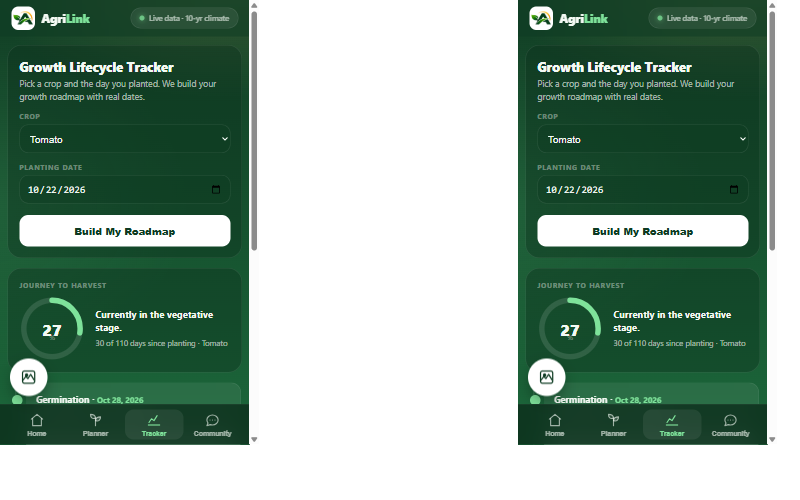
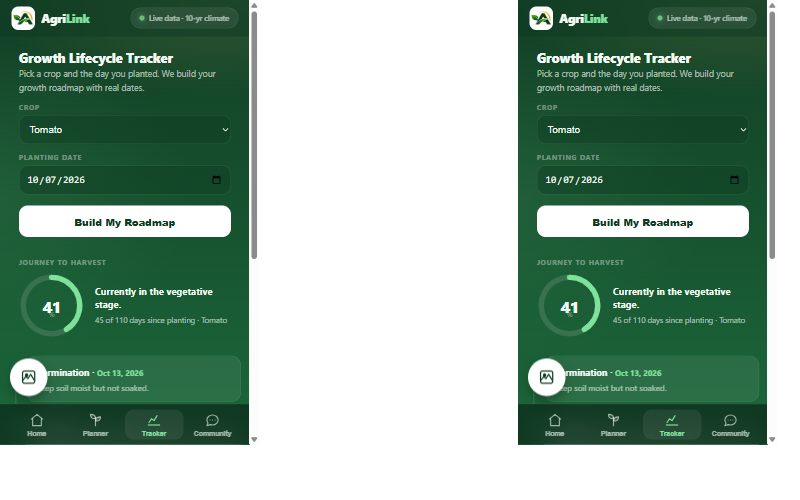
De-boxed layout: open editorial sections; crop search, helpful reactions, parish board filter, harvest dates on picks, offline badge

Changed region(s): [[0.6562, 0.09, 0.9688, 0.81], [0.0, 0.09, 0.3125, 0.81]]

diff --git a/css/styles.css b/css/styles.css
@@ -102,14 +102,17 @@ main { max-width: 560px; margin: 0 auto; padding: 18px 16px; }
 .screen.active { display: block; }
 @keyframes fadeIn { from { opacity: 0; transform: translateY(10px); } to { opacity: 1; } }
 
-/* ---------- glass panels — the only "surface" in the app ---------- */
+/* ---------- open sections: no boxes — content sits on the canvas,
+   separated by hairline dividers, like a premium field guide ---------- */
 .card {
-  background: rgba(11, 46, 26, .38);
-  border: 1px solid var(--glass-line);
-  border-radius: var(--radius);
-  padding: 22px;
-  margin-bottom: 16px;
+  background: none;
+  border: none;
+  border-radius: 0;
+  padding: 4px 2px;
+  margin-bottom: 10px;
 }
+.screen .card + .card { border-top: 1px solid var(--glass-line); margin-top: 14px; padding-top: 22px; }
+.screen .card:first-child { padding-top: 4px; }
 .card.soft { background: var(--glass-strong); }
 
 /* ---------- HOME: the big hero (like a weather app's temp) ---------- */
@@ -189,11 +192,11 @@ main { max-width: 560px; margin: 0 auto; padding: 18px 16px; }
 /* ---------- rain alert ---------- */
 .alert-banner {
   display: flex; flex-direction: column; gap: 2px;
-  background: rgba(255, 213, 126, .12);
-  border: 1px solid rgba(255, 213, 126, .35);
-  border-radius: var(--radius);
-  padding: 14px 16px;
-  margin-bottom: 14px;
+  background: linear-gradient(90deg, rgba(255, 213, 126, .14), rgba(255, 213, 126, .04));
+  border-left: 3px solid var(--sun);
+  border-radius: 4px;
+  padding: 12px 16px;
+  margin-bottom: 16px;
 }
 .alert-banner b { color: var(--sun); font-size: 14.5px; }
 .alert-banner span { color: rgba(255, 213, 126, .8); font-size: 13px; }
@@ -254,6 +257,26 @@ main { max-width: 560px; margin: 0 auto; padding: 18px 16px; }
 .pick .pick-score .num { font-weight: 800; font-size: 16px; color: var(--mint); }
 .pick .pick-score .bar { height: 4px; border-radius: 999px; background: rgba(255,255,255,.14); margin-top: 5px; overflow: hidden; }
 .pick .pick-score .bar div { height: 100%; background: var(--mint); border-radius: 999px; }
+
+/* ---------- search ---------- */
+.search-wrap { position: relative; margin: 6px 0 2px; }
+.search-wrap svg { position: absolute; left: 14px; top: 13px; width: 17px; height: 17px; color: var(--ink-faint); }
+.search-wrap input { padding-left: 40px; }
+
+/* ---------- segmented control (board filter) ---------- */
+.seg { display: inline-flex; background: rgba(255,255,255,.08); border-radius: 999px; padding: 3px; margin-top: 8px; }
+.seg button { border: none; background: none; color: var(--ink-dim); font-size: 12px; font-weight: 700; padding: 6px 14px; border-radius: 999px; cursor: pointer; font-family: inherit; }
+.seg button.on { background: #fff; color: var(--dark); }
+
+/* ---------- helpful reaction ---------- */
+.helpful {
+  border: none; background: none;
+  color: var(--ink-faint);
+  font-size: 11.5px; font-weight: 700;
+  cursor: pointer; margin-top: 6px; padding: 0;
+  font-family: inherit;
+}
+.helpful.did { color: var(--coral); }
 
 /* ---------- season chips ---------- */
 .season-chips { display: flex; flex-wrap: wrap; gap: 8px; margin: 8px 0 4px; }
@@ -395,7 +418,6 @@ input::placeholder { color: var(--ink-faint); }
 .stage .tip { color: var(--ink-dim); font-size: 13px; margin-top: 3px; }
 .stage b { font-size: 14.5px; }
 .stage.done::before { background: var(--mint); border-color: var(--mint); }
-.stage.current { border-color: rgba(255, 213, 126, .5); }
 .stage.current::before { background: var(--sun); border-color: var(--sun); }
 
 .progress-wrap { display: flex; align-items: center; gap: 18px; }
@@ -414,8 +436,8 @@ input::placeholder { color: var(--ink-faint); }
 .upload-box {
   display: flex; flex-direction: column; align-items: center; gap: 12px;
   border: 2px dashed rgba(255,255,255,.22);
-  border-radius: var(--radius);
-  background: rgba(255,255,255,.05);
+  border-radius: 20px;
+  background: rgba(255,255,255,.04);
   padding: 26px 16px;
   margin-top: 14px;
   text-align: center;

diff --git a/js/app.js b/js/app.js
@@ -197,6 +197,8 @@ async function loadFarmData(parishName) {
       renderTopPicks();
       renderForecastStrip();
       renderSeasonChips();
+      renderHeroCondition();
+      updateOfflineBadge();
       return;
     }
   } catch {
@@ -254,7 +256,18 @@ async function loadFarmData(parishName) {
   renderForecastStrip();
   renderSeasonChips();
   renderHeroCondition();
+  updateOfflineBadge();
 }
+
+// Offline indicator — the PWA story: it still works, just tells you.
+function updateOfflineBadge() {
+  const el = document.getElementById("offline-note");
+  if (!el) return;
+  el.textContent = navigator.onLine ? "" : "You're offline — showing saved data. Everything still works.";
+  el.classList.toggle("hidden", navigator.onLine);
+}
+window.addEventListener("online", updateOfflineBadge);
+window.addEventListener("offline", updateOfflineBadge);
 
 // One human line about the week ahead, right under the big temp.
 function renderHeroCondition() {
@@ -403,7 +416,7 @@ function renderTopPicks() {
       `<span class="icon">${CROP_ICONS[entry.crop.name]}</span>` +
       `<span class="pick-info">` +
         `<span class="pick-name">${entry.crop.name}</span>` +
-        `<div class="pick-why">${entry.rec.verdict} · rain ${entry.rec.rain} mm · ${entry.rec.score}% fit</div>` +
+        `<div class="pick-why">${entry.rec.verdict} · harvest around ${harvestDate(entry.crop).replace(/,.*/, "")}</div>` +
       `</span>` +
       `<span class="pick-score"><span class="num">${entry.rec.score}%</span>` +
         `<div class="bar"><div style="width:${entry.rec.score}%"></div></div></span>`;
@@ -437,11 +450,19 @@ async function fetchClimateYear(parish, year, now) {
 }
 
 // ============ 4. PLANNER SCREEN ============
-function renderCrops() {
+function renderCrops(filterText) {
   const grid = document.getElementById("crop-grid");
   grid.innerHTML = "";
+  const filter = (filterText || "").toLowerCase();
 
-  CROPS.forEach((crop, index) => {
+  const visible = CROPS.filter((crop) => crop.name.toLowerCase().includes(filter));
+  if (!visible.length) {
+    grid.innerHTML = `<p class="muted small">No crop called "${filterText}" — try lettuce, okra, corn…</p>`;
+    return;
+  }
+
+  visible.forEach((crop) => {
+    const index = CROPS.indexOf(crop);
     const tile = document.createElement("button");
     tile.className = "crop-tile";
     tile.type = "button";
@@ -453,6 +474,10 @@ function renderCrops() {
     grid.appendChild(tile);
   });
 }
+
+document.getElementById("crop-search").addEventListener("input", (event) => {
+  renderCrops(event.target.value.trim());
+});
 
 function showPlan(index) {
   const crop = CROPS[index];
@@ -695,10 +720,16 @@ document.getElementById("chat-form").addEventListener("submit", (event) => {
   messageBox.value = "";
 });
 
+// board filter buttons
+document.querySelectorAll("#board-filter button").forEach((btn) => {
+  btn.addEventListener("click", () => setBoardFilter(btn.dataset.filter));
+});
+
 // ============ START THE APP ============
 renderChat();
 renderReports();
 renderTipOfDay();
+updateOfflineBadge();
 
 const savedParish = localStorage.getItem("agrilink-parish");
 if (savedParish) {

diff --git a/index.html b/index.html
@@ -44,6 +44,7 @@
           </div>
         </div>
         <div class="hero-condition" id="hero-condition"></div>
+        <p id="offline-note" class="small muted hidden" style="margin-top:6px"></p>
         <div id="farm-stats" class="stat-strip hidden"></div>
       </div>
 
@@ -104,7 +105,11 @@
         <label>Planting right now in your parish</label>
         <div id="season-chips" class="season-chips"></div>
 
-        <label>All crops</label>
+        <label for="crop-search">All crops</label>
+        <div class="search-wrap">
+          <svg viewBox="0 0 24 24" fill="none" stroke="currentColor" stroke-width="2" stroke-linecap="round"><circle cx="11" cy="11" r="7"/><path d="M21 21l-4.3-4.3"/></svg>
+          <input id="crop-search" type="text" placeholder="Search 14 crops…" />
+        </div>
         <div id="crop-grid" class="crop-list"></div>
       </div>
 
@@ -210,7 +215,11 @@
       <!-- public problem board (read-only) -->
       <div class="card">
         <h2>Problem Board</h2>
-        <p class="muted">What farmers near you are dealing with right now — reported from the field.</p>
+        <p class="muted">What farmers are dealing with right now — reported from the field.</p>
+        <div class="seg" id="board-filter">
+          <button class="on" data-filter="all">All parishes</button>
+          <button data-filter="mine">My parish</button>
+        </div>
         <div id="report-feed" class="report-feed"></div>
       </div>
     </section>
@@ -272,9 +281,9 @@
     </button>
   </nav>
 
-  <script src="js/planner.js?v=8"></script>
-  <script src="js/community.js?v=8"></script>
-  <script src="js/problems.js?v=8"></script>
-  <script src="js/app.js?v=11"></script>
+  <script src="js/planner.js?v=12"></script>
+  <script src="js/community.js?v=12"></script>
+  <script src="js/problems.js?v=12"></script>
+  <script src="js/app.js?v=12"></script>
 </body>
 </html>

diff --git a/js/problems.js b/js/problems.js
@@ -201,10 +201,25 @@ function addReport(crop, problem, note, parish) {
   renderReports();
 }
 
+// Board filter: "all" or "mine" (the farmer's own parish).
+let boardFilter = "all";
+
+function setBoardFilter(mode) {
+  boardFilter = mode;
+  document.querySelectorAll("#board-filter button").forEach((b) => {
+    b.classList.toggle("on", b.dataset.filter === mode);
+  });
+  renderReports();
+}
+
 function renderReports() {
   const feed = document.getElementById("report-feed");
   feed.innerHTML = "";
+  const myParish = localStorage.getItem("agrilink-parish") || "";
+  let shown = 0;
   for (const report of loadReports()) {
+    if (boardFilter === "mine" && report.parish !== myParish) continue;
+    shown++;
     const card = document.createElement("div");
     card.className = "report" + (report.mine ? " mine" : "");
     const top = document.createElement("div");
@@ -222,5 +237,8 @@ function renderReports() {
     }
     card.appendChild(meta);
     feed.appendChild(card);
+  }
+  if (!shown) {
+    feed.innerHTML = `<p class="muted small">No reports from ${myParish || "your parish"} yet — that's either great news, or you'll be the first to spot something.</p>`;
   }
 }

diff --git a/js/community.js b/js/community.js
@@ -79,9 +79,26 @@ function renderChat() {
 
     const when = document.createElement("div");
     when.className = "when";
-    when.textContent = post.time;
+    when.textContent = post.time + (post.helpful ? ` · ${post.helpful} found this helpful` : "");
 
     bubble.append(who, text, when);
+
+    // "Helpful" reaction — thanks a farmer for good advice.
+    // The button lives inside MY view only (it's a local demo app).
+    const helpful = document.createElement("button");
+    helpful.type = "button";
+    helpful.className = "helpful" + (post.iHelped ? " did" : "");
+    helpful.textContent = post.iHelped ? "You found this helpful" : "Helpful";
+    helpful.addEventListener("click", () => {
+      const posts = loadPosts();
+      const target = posts.find((x) => x === post);
+      if (target.iHelped) { target.iHelped = false; target.helpful = (target.helpful || 1) - 1; }
+      else { target.iHelped = true; target.helpful = (target.helpful || 0) + 1; }
+      savePosts(posts);
+      renderChat();
+    });
+    bubble.appendChild(helpful);
+
     div.append(avatar, bubble);
     feed.appendChild(div);
   }

diff --git a/service-worker.js b/service-worker.js
@@ -4,7 +4,7 @@
    so it opens even when the farm has no signal.
 ============================================================ */
 
-const CACHE_NAME = "agrilink-v11";
+const CACHE_NAME = "agrilink-v12";
 const FILES_TO_CACHE = [
   "./",
   "./index.html",
